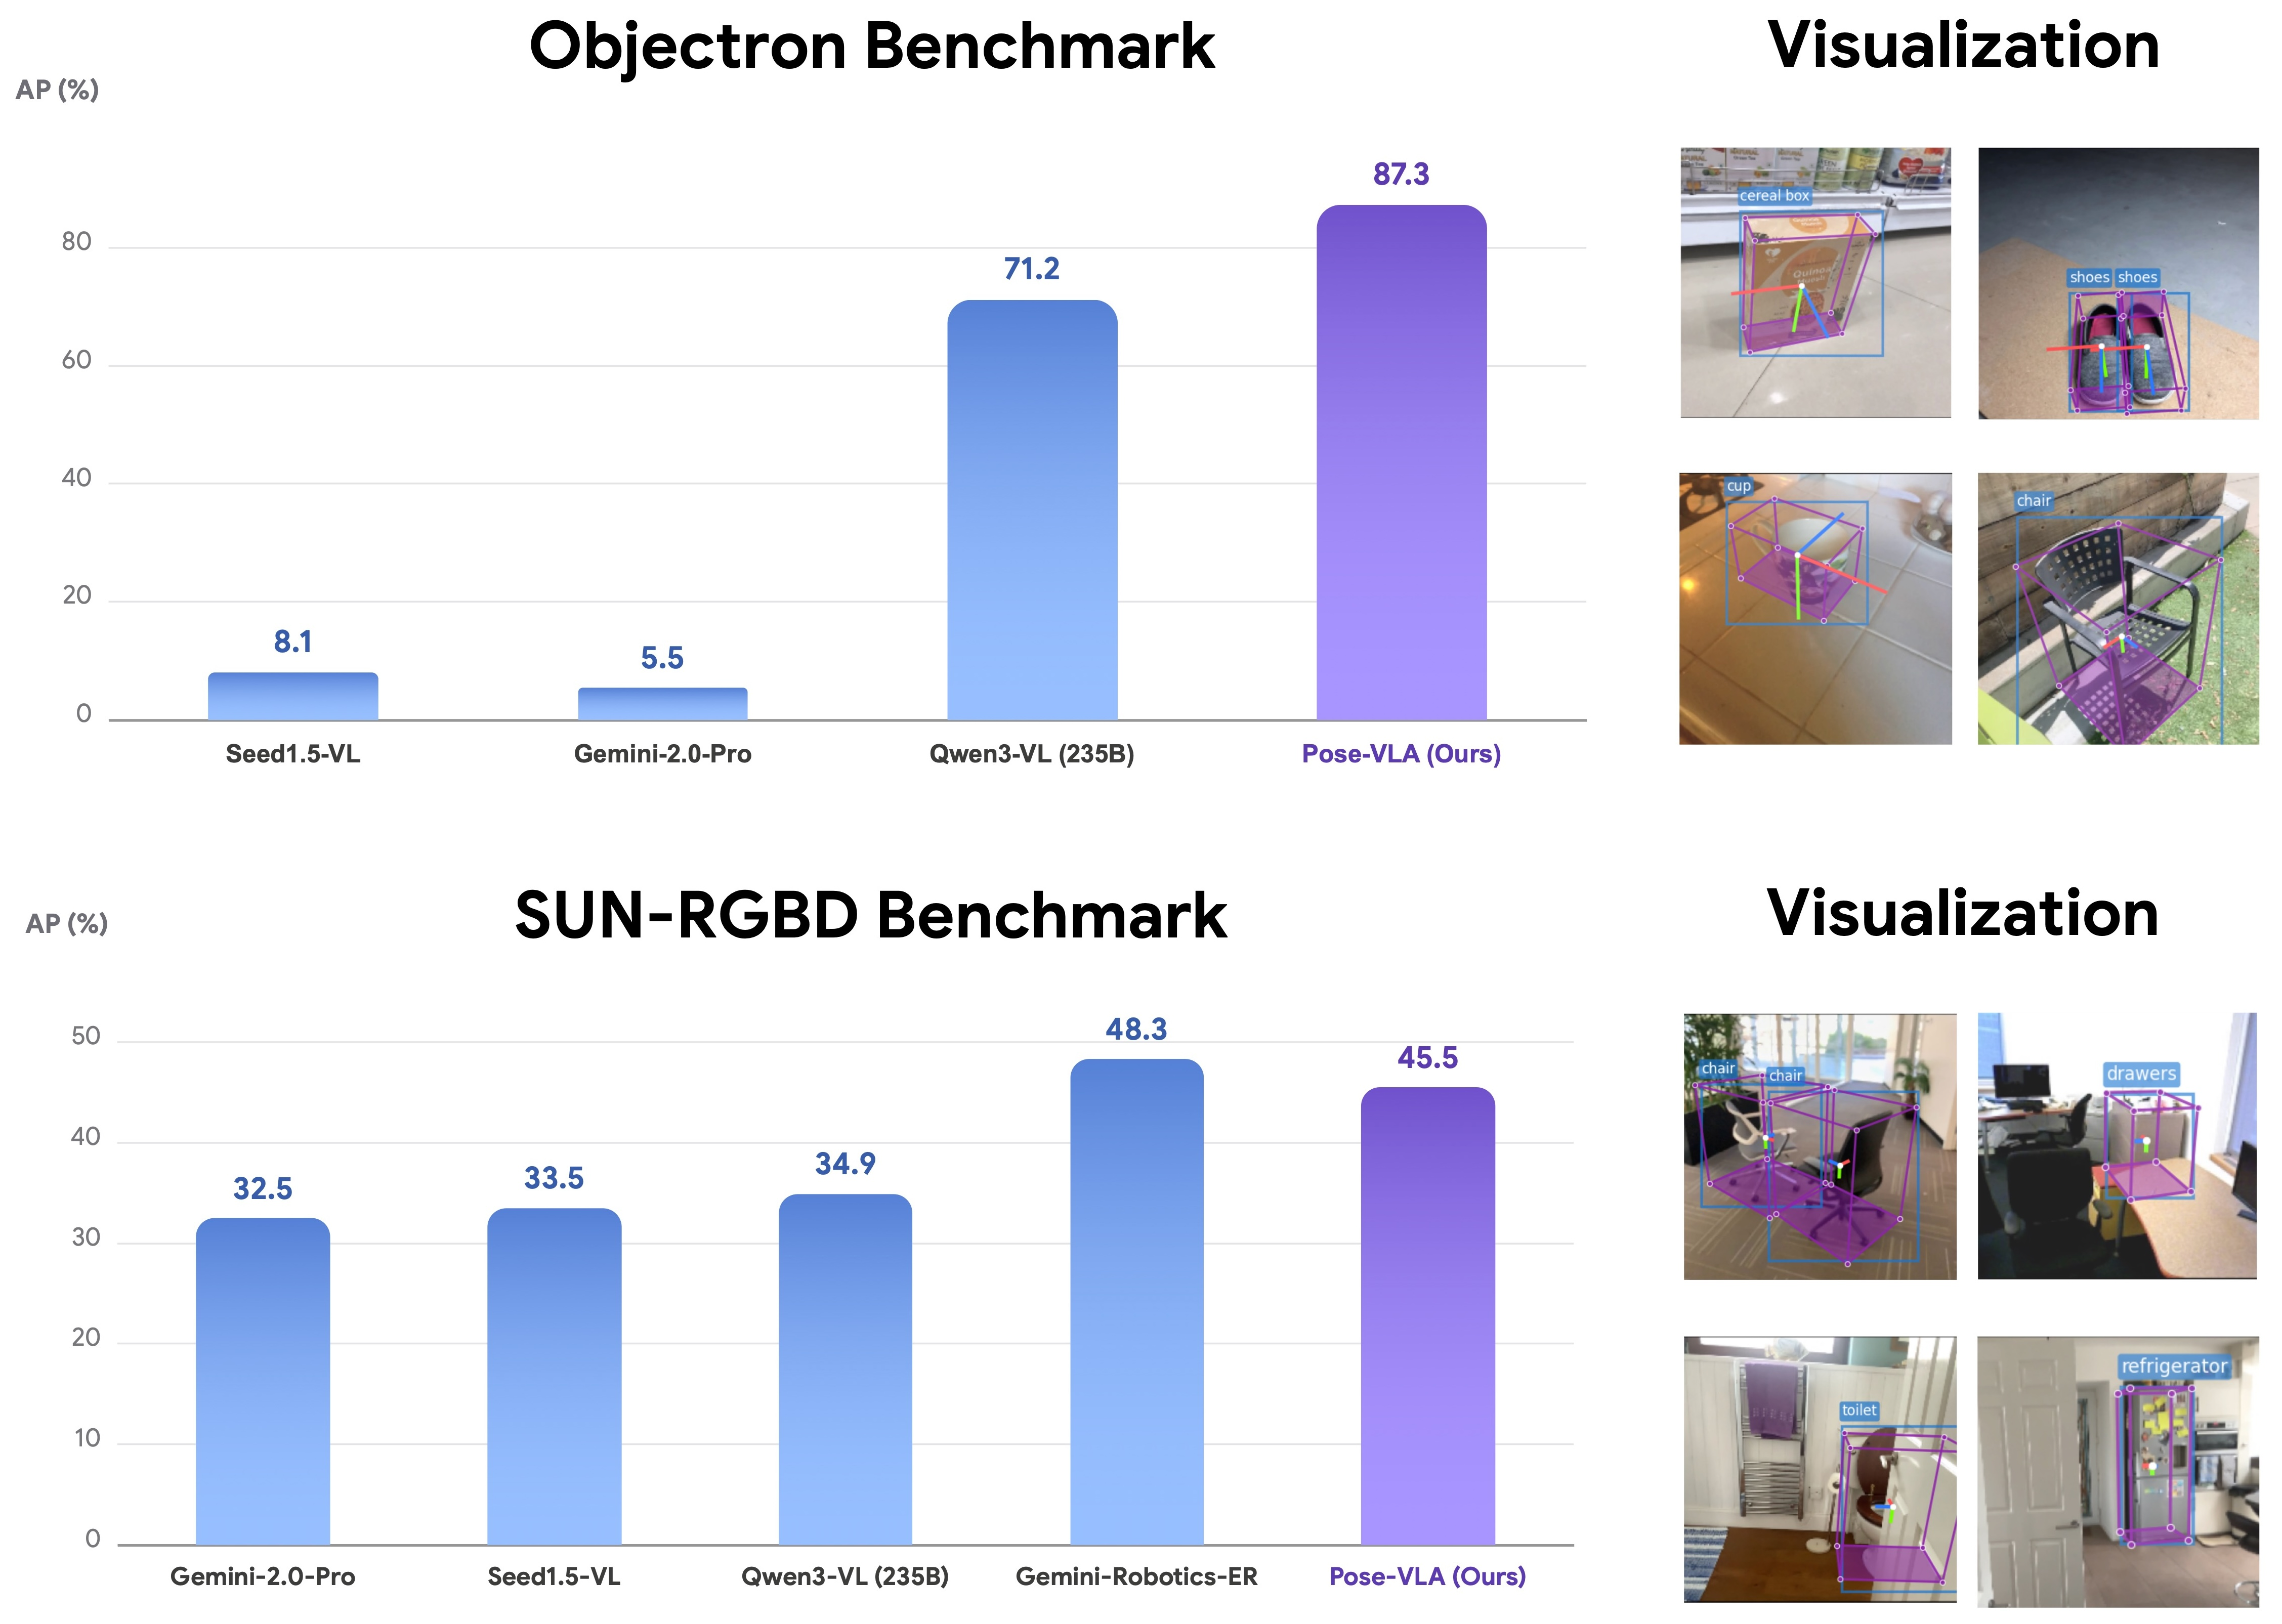
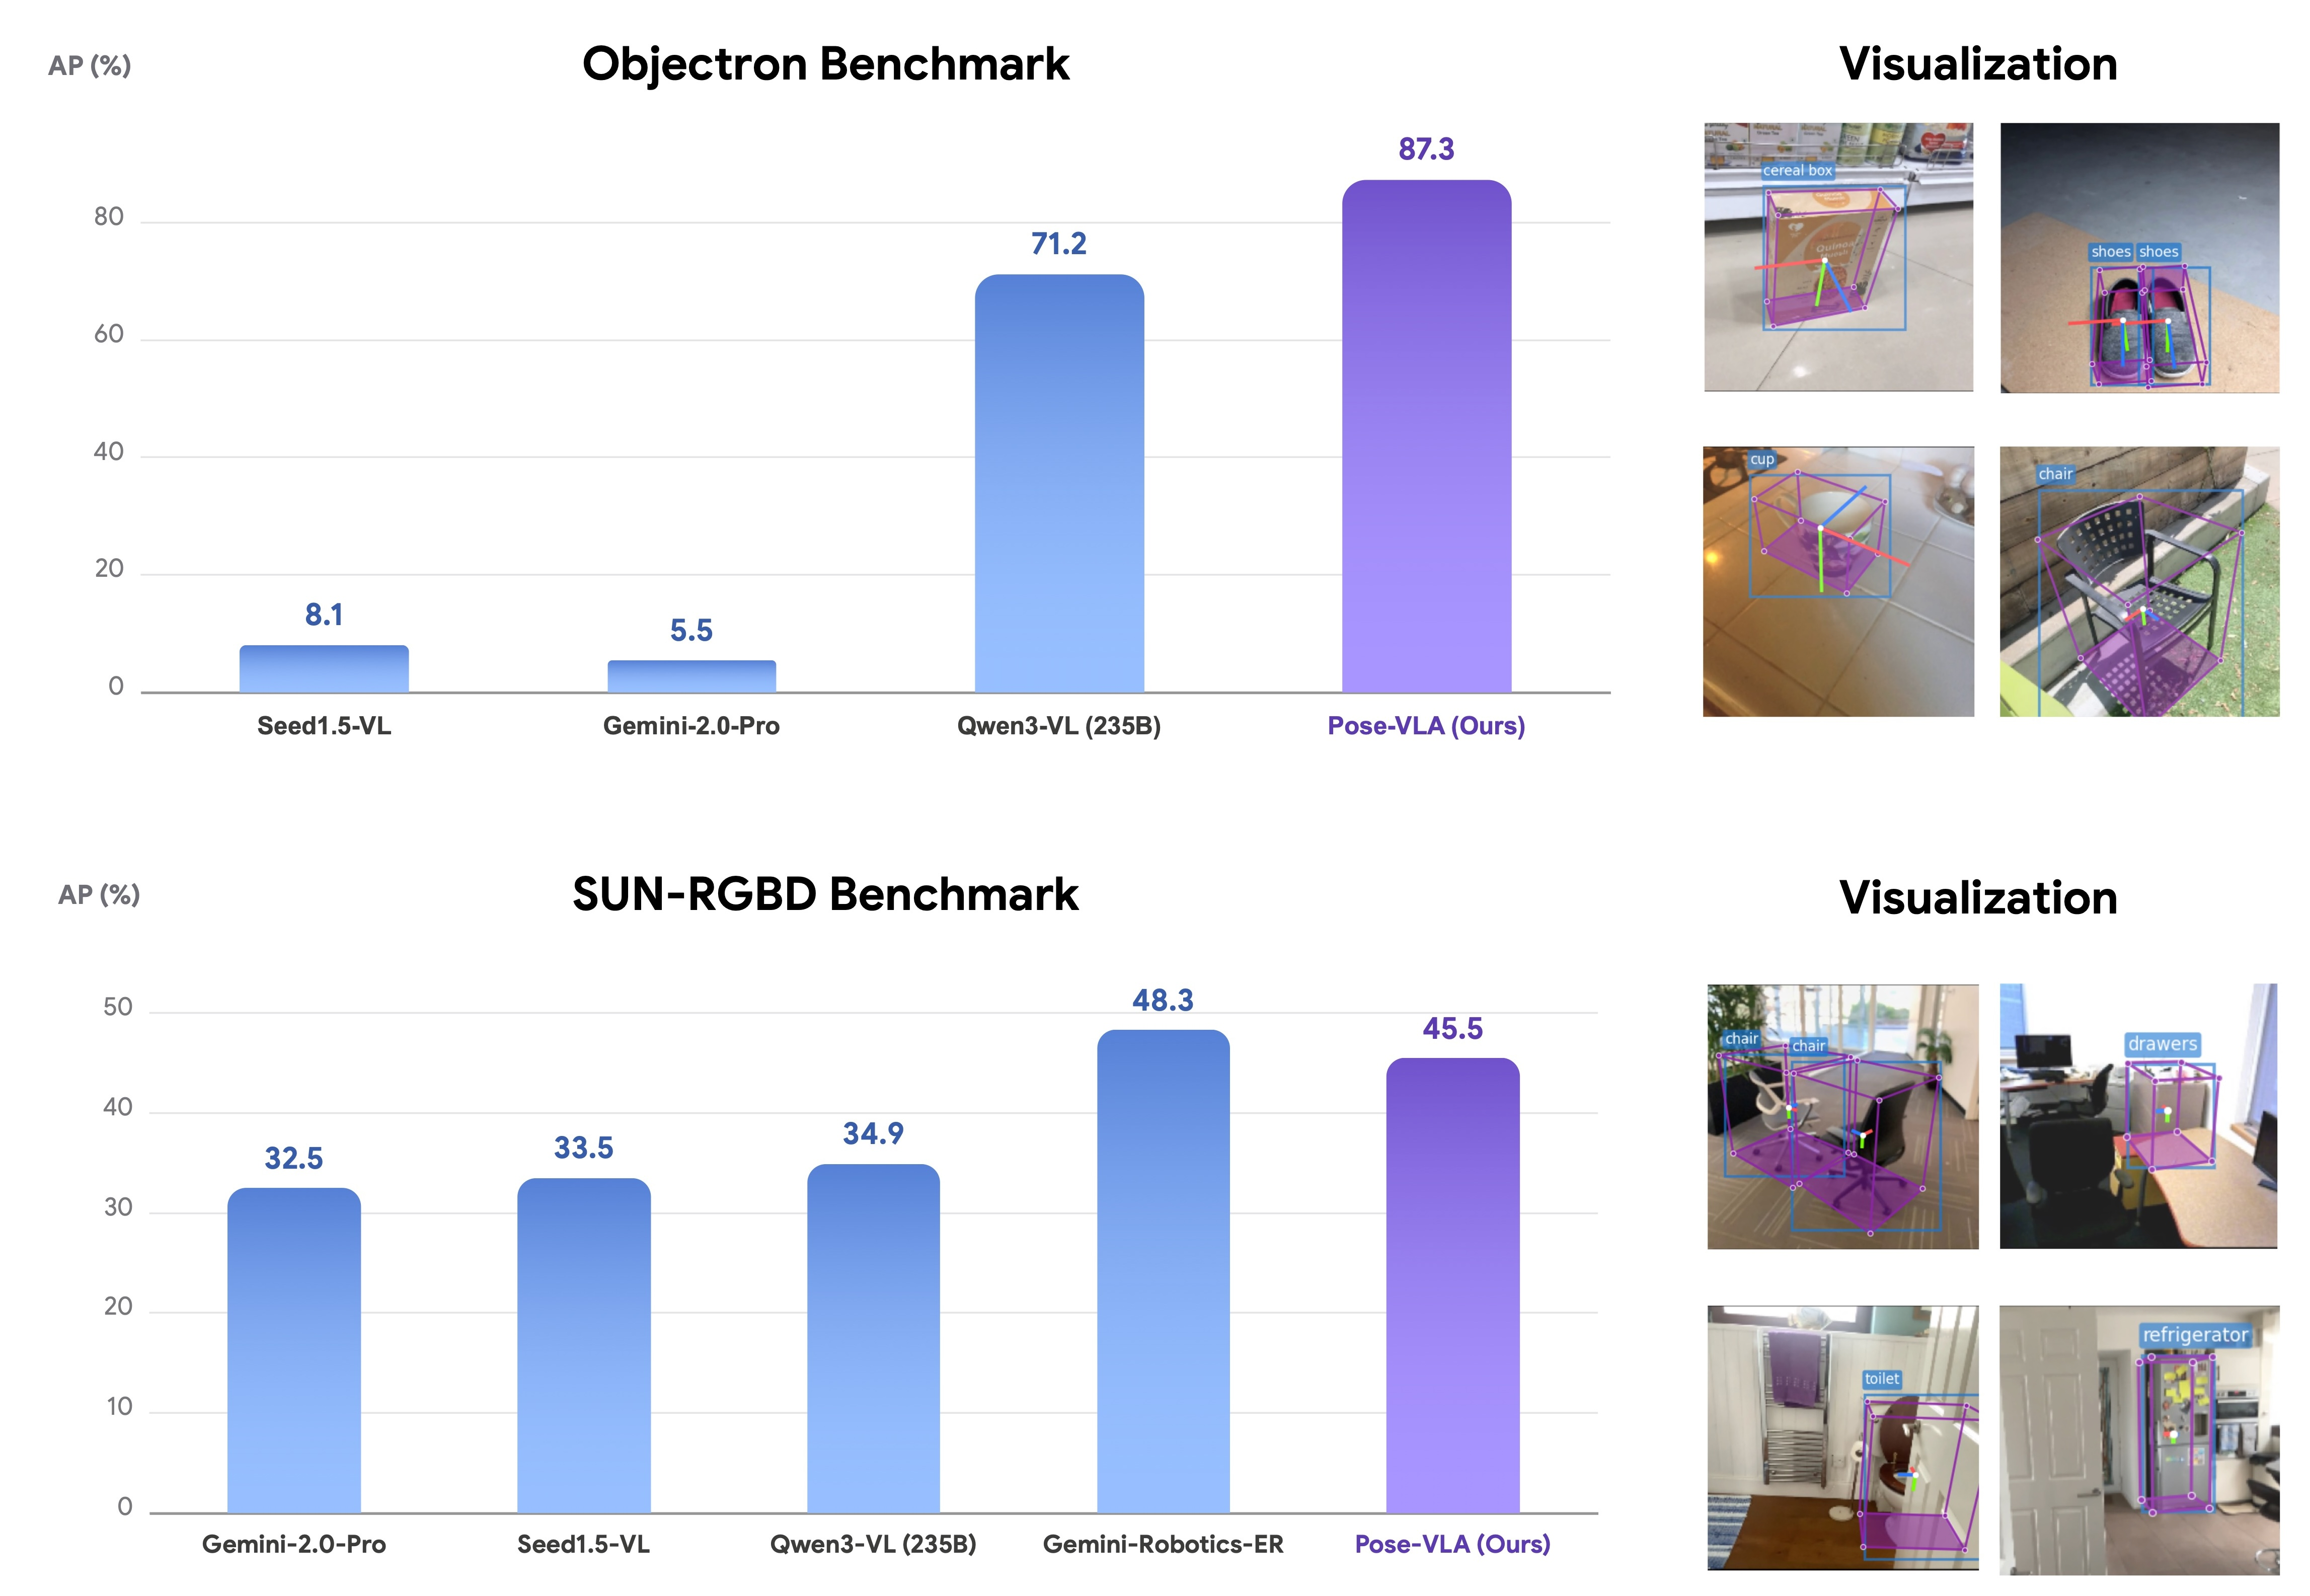
update poster, etc.

diff --git a/PoseVLA/index.html b/PoseVLA/index.html
@@ -76,7 +76,7 @@
                 <a href="http://arxiv.org/pdf/2602.19710" target="_blank" class="btn btn-purple"><i class="fas fa-file-pdf"></i> Paper</a>
                 <a href="https://github.com/hetolin/PoseVLA" target="_blank" class="btn btn-purple"><i class="fab fa-github"></i> Code</a>
                 <a href="https://www.modelscope.ai/models/hanyangyu1021/PoseVLA-robotwin/" target="_blank" class="btn btn-purple"><i class="fas fa-database"></i> ModelScope</a>
-                <a href="#poster-display" class="btn btn-outline"><i class="fas fa-chalkboard"></i> Poster</a>
+                <a href="resources/images/poster.png" target="_blank" class="btn btn-outline"><i class="fas fa-chalkboard"></i> Poster</a>
             </div>
         </div>
     </header>
@@ -150,68 +150,69 @@
 
 
             <div class="card-container architecture-card" style="margin-bottom: 40px;">
-                <h3>Universal 3D Spatial Grounding</h3>
+                <h2>1. Universal 3D Spatial Grounding</h2>
                 <img src="resources/images/bench_3d.jpg" alt="3D Spatial Grounding Benchmark" class="architecture-img">
                 <h3>Generalizes to unseen tabletops & robot workspaces</h3>
                 <img src="resources/images/vis_3d.jpg" alt="3D Spatial Grounding Visualization" class="architecture-img">
             </div>
 
-            <div class="card-container architecture-card" style="margin-bottom: 40px;">
-                <h3>Simulation Benchmark</h3>
-                <img src="resources/images/sim.jpg" alt="Sim Benchmark" class="architecture-img">
-            </div>
+
 
             <div class="performance-card">
+                <div class="card-container architecture-card" style="margin-bottom: 40px;">
+                    <h2>2. Simulation Benchmark</h2>
+                    <img src="resources/images/sim.jpg" alt="Sim Benchmark" class="architecture-img">
+                </div>
                 <h3>Comparison on RoboTwin 2.0 Simulation</h3>
                 <div class="performance-table">
-<!--                    <table>-->
-<!--                        <thead>-->
-<!--                            <tr>-->
-<!--                                <th rowspan="2" class="task-col">Manipulation Task</th>-->
-<!--                                <th colspan="2">$\pi_0$</th>-->
-<!--                                <th colspan="2">$\pi_{0.5}$</th>-->
-<!--                                <th colspan="2">$\pi_0$ (PaliGemma)</th>-->
-<!--                                <th colspan="2" class="our-method-header">Pose-VLA (w/o depth)</th>-->
-<!--                            </tr>-->
-<!--                            <tr class="sub-header">-->
-<!--                                <th>Easy</th><th>Hard</th>-->
-<!--                                <th>Easy</th><th>Hard</th>-->
-<!--                                <th>Easy</th><th>Hard</th>-->
-<!--                                <th class="our-col">Easy</th><th class="our-col">Hard</th>-->
-<!--                            </tr>-->
-<!--                        </thead>-->
-<!--                        <tbody>-->
-<!--                            <tr><td>Adjust Bottle</td><td>70%</td><td>57%</td><td>62%</td><td>69%</td><td>67%</td><td>47%</td><td class="our-val">97%</td><td class="our-val">77%</td></tr>-->
-<!--                            <tr><td>Beat Block Hammer</td><td>80%</td><td>73%</td><td>78%</td><td>93%</td><td>40%</td><td>37%</td><td class="our-val">100%</td><td class="our-val">87%</td></tr>-->
-<!--                            <tr><td>Click Alarmclock</td><td>83%</td><td>73%</td><td>92%</td><td>89%</td><td>80%</td><td>57%</td><td class="our-val">83%</td><td class="our-val">93%</td></tr>-->
-<!--                            <tr><td>Dump Bin Bigbin</td><td>100%</td><td>90%</td><td>89%</td><td>97%</td><td>73%</td><td>77%</td><td class="our-val">97%</td><td class="our-val">97%</td></tr>-->
-<!--                            <tr><td>Grab Roller</td><td>93%</td><td>97%</td><td>100%</td><td>100%</td><td>53%</td><td>57%</td><td class="our-val">97%</td><td class="our-val">100%</td></tr>-->
-<!--                            <tr><td>Handover Block</td><td>33%</td><td>40%</td><td>84%</td><td>57%</td><td>7%</td><td>17%</td><td class="our-val">73%</td><td class="our-val">80%</td></tr>-->
-<!--                            <tr><td>Lift Pot</td><td>63%</td><td>73%</td><td>100%</td><td>85%</td><td>37%</td><td>30%</td><td class="our-val">100%</td><td class="our-val">97%</td></tr>-->
-<!--                            <tr><td>Move Pillbottle Pad</td><td>73%</td><td>67%</td><td>85%</td><td>61%</td><td>10%</td><td>20%</td><td class="our-val">90%</td><td class="our-val">87%</td></tr>-->
+                    <table>
+                        <thead>
+                            <tr>
+                                <th rowspan="2" class="task-col">Manipulation Task</th>
+                                <th colspan="2">$\pi_0$</th>
+                                <th colspan="2">$\pi_{0.5}$</th>
+                                <th colspan="2">$\pi_0$ (PaliGemma)</th>
+                                <th colspan="2" class="our-method-header">Pose-VLA (w/o depth)</th>
+                            </tr>
+                            <tr class="sub-header">
+                                <th>Easy</th><th>Hard</th>
+                                <th>Easy</th><th>Hard</th>
+                                <th>Easy</th><th>Hard</th>
+                                <th class="our-col">Easy</th><th class="our-col">Hard</th>
+                            </tr>
+                        </thead>
+                        <tbody>
+                            <tr><td>Adjust Bottle</td><td>70%</td><td>57%</td><td>62%</td><td>69%</td><td>67%</td><td>47%</td><td class="our-val">97%</td><td class="our-val">77%</td></tr>
+                            <tr><td>Beat Block Hammer</td><td>80%</td><td>73%</td><td>78%</td><td>93%</td><td>40%</td><td>37%</td><td class="our-val">100%</td><td class="our-val">87%</td></tr>
+                            <tr><td>Click Alarmclock</td><td>83%</td><td>73%</td><td>92%</td><td>89%</td><td>80%</td><td>57%</td><td class="our-val">83%</td><td class="our-val">93%</td></tr>
+                            <tr><td>Dump Bin Bigbin</td><td>100%</td><td>90%</td><td>89%</td><td>97%</td><td>73%</td><td>77%</td><td class="our-val">97%</td><td class="our-val">97%</td></tr>
+                            <tr><td>Grab Roller</td><td>93%</td><td>97%</td><td>100%</td><td>100%</td><td>53%</td><td>57%</td><td class="our-val">97%</td><td class="our-val">100%</td></tr>
+                            <tr><td>Handover Block</td><td>33%</td><td>40%</td><td>84%</td><td>57%</td><td>7%</td><td>17%</td><td class="our-val">73%</td><td class="our-val">80%</td></tr>
+                            <tr><td>Lift Pot</td><td>63%</td><td>73%</td><td>100%</td><td>85%</td><td>37%</td><td>30%</td><td class="our-val">100%</td><td class="our-val">97%</td></tr>
+                            <tr><td>Move Pillbottle Pad</td><td>73%</td><td>67%</td><td>85%</td><td>61%</td><td>10%</td><td>20%</td><td class="our-val">90%</td><td class="our-val">87%</td></tr>
 
-<!--                            <tr class="dots-row"><td colspan="9">... (50 tasks in total) ...</td></tr>-->
+                            <tr class="dots-row"><td colspan="9">... (50 tasks in total) ...</td></tr>
 
-<!--                            <tr><td>Open Laptop</td><td>73%</td><td>70%</td><td>88%</td><td>96%</td><td>67%</td><td>70%</td><td class="our-val">93%</td><td class="our-val">93%</td></tr>-->
-<!--                            <tr><td>Pick Dual Bottles</td><td>47%</td><td>50%</td><td>21%</td><td>63%</td><td>10%</td><td>0%</td><td class="our-val">87%</td><td class="our-val">87%</td></tr>-->
-<!--                            <tr><td>Place A2b Left</td><td>60%</td><td>43%</td><td>84%</td><td>82%</td><td>27%</td><td>10%</td><td class="our-val">90%</td><td class="our-val">80%</td></tr>-->
-<!--                            <tr><td>Place Cans Plasticbox</td><td>83%</td><td>73%</td><td>90%</td><td>84%</td><td>23%</td><td>17%</td><td class="our-val">97%</td><td class="our-val">87%</td></tr>-->
-<!--                            <tr><td>Place Container Plate</td><td>93%</td><td>100%</td><td>89%</td><td>95%</td><td>90%</td><td>80%</td><td class="our-val">97%</td><td class="our-val">100%</td></tr>-->
-<!--                            <tr><td>Place Dual Shoes</td><td>63%</td><td>50%</td><td>93%</td><td>75%</td><td>3%</td><td>0%</td><td class="our-val">87%</td><td class="our-val">77%</td></tr>-->
-<!--                            <tr><td>Place Object Scale</td><td>70%</td><td>43%</td><td>82%</td><td>80%</td><td>10%</td><td>10%</td><td class="our-val">67%</td><td class="our-val">83%</td></tr>-->
-<!--                            <tr><td>Place Phone Stand</td><td>70%</td><td>57%</td><td>83%</td><td>81%</td><td>30%</td><td>20%</td><td class="our-val">87%</td><td class="our-val">87%</td></tr>-->
-<!--                            <tr><td>Place Shoe</td><td>87%</td><td>80%</td><td>96%</td><td>93%</td><td>23%</td><td>30%</td><td class="our-val">100%</td><td class="our-val">87%</td></tr>-->
-<!--                        </tbody>-->
-<!--                        <tfoot>-->
-<!--                            <tr class="average-row">-->
-<!--                                <td>Average (%)</td>-->
-<!--                                <td>67.00</td><td>65.12</td>-->
-<!--                                <td>79.48</td><td>76.16</td>-->
-<!--                                <td>35.40</td><td>33.36</td>-->
-<!--                                <td class="best-score">79.91</td><td class="best-score">79.10</td>-->
-<!--                            </tr>-->
-<!--                        </tfoot>-->
-<!--                    </table>-->
+                            <tr><td>Open Laptop</td><td>73%</td><td>70%</td><td>88%</td><td>96%</td><td>67%</td><td>70%</td><td class="our-val">93%</td><td class="our-val">93%</td></tr>
+                            <tr><td>Pick Dual Bottles</td><td>47%</td><td>50%</td><td>21%</td><td>63%</td><td>10%</td><td>0%</td><td class="our-val">87%</td><td class="our-val">87%</td></tr>
+                            <tr><td>Place A2b Left</td><td>60%</td><td>43%</td><td>84%</td><td>82%</td><td>27%</td><td>10%</td><td class="our-val">90%</td><td class="our-val">80%</td></tr>
+                            <tr><td>Place Cans Plasticbox</td><td>83%</td><td>73%</td><td>90%</td><td>84%</td><td>23%</td><td>17%</td><td class="our-val">97%</td><td class="our-val">87%</td></tr>
+                            <tr><td>Place Container Plate</td><td>93%</td><td>100%</td><td>89%</td><td>95%</td><td>90%</td><td>80%</td><td class="our-val">97%</td><td class="our-val">100%</td></tr>
+                            <tr><td>Place Dual Shoes</td><td>63%</td><td>50%</td><td>93%</td><td>75%</td><td>3%</td><td>0%</td><td class="our-val">87%</td><td class="our-val">77%</td></tr>
+                            <tr><td>Place Object Scale</td><td>70%</td><td>43%</td><td>82%</td><td>80%</td><td>10%</td><td>10%</td><td class="our-val">67%</td><td class="our-val">83%</td></tr>
+                            <tr><td>Place Phone Stand</td><td>70%</td><td>57%</td><td>83%</td><td>81%</td><td>30%</td><td>20%</td><td class="our-val">87%</td><td class="our-val">87%</td></tr>
+                            <tr><td>Place Shoe</td><td>87%</td><td>80%</td><td>96%</td><td>93%</td><td>23%</td><td>30%</td><td class="our-val">100%</td><td class="our-val">87%</td></tr>
+                        </tbody>
+                        <tfoot>
+                            <tr class="average-row">
+                                <td>Average (%)</td>
+                                <td>67.00</td><td>65.12</td>
+                                <td>79.48</td><td>76.16</td>
+                                <td>35.40</td><td>33.36</td>
+                                <td class="best-score">79.91</td><td class="best-score">79.10</td>
+                            </tr>
+                        </tfoot>
+                    </table>
 
                 </div>
                 <div id="latest-update" style="margin-top: 2rem; background: linear-gradient(to right, #f8fafc, #f1f5f9); border: 1px solid #e2e8f0; border-left: 4px solid #6366f1; border-radius: 8px; padding: 1.5rem; display: flex; align-items: flex-start; gap: 1rem; box-shadow: 0 1px 3px rgba(0,0,0,0.05); scroll-margin-top: 100px;">
@@ -232,25 +233,19 @@
                         </p>
                     </div>
                 </div>
-
-            <div class="card-container architecture-card" style="margin-bottom: 40px; margin-top: 40px;">
-                <h3>Real-world Tasks</h3>
-                <img src="resources/images/real.jpg" alt="Real-world Benchmark" class="architecture-img">
-            </div>
-
         </div>
-    </section>
 
-    <section id="ablation" class="section">
-        <div class="container">
-            <h2 class="section-title">Ablation Results</h2>
-
-            <div class="card-container architecture-card" style="margin-bottom: 40px;">
-                <img src="resources/images/ablation.jpg" alt="3D Spatial Grounding Benchmark" class="architecture-img">
-            </div>
+        <div class="card-container architecture-card" style="margin-bottom: 40px; margin-top: 40px;">
+            <h2>3. Real-world Tasks</h2>
+            <img src="resources/images/real.jpg" alt="Real-world Benchmark" class="architecture-img">
         </div>
-    </section>
 
+        <div class="card-container architecture-card" style="margin-bottom: 40px;">
+            <h2>4. Ablation Study</h2>
+            <img src="resources/images/ablation.jpg" alt="3D Spatial Grounding Benchmark" class="architecture-img">
+        </div>
+
+    </section>
 
     <section id="citation" class="section">
         <div class="container">